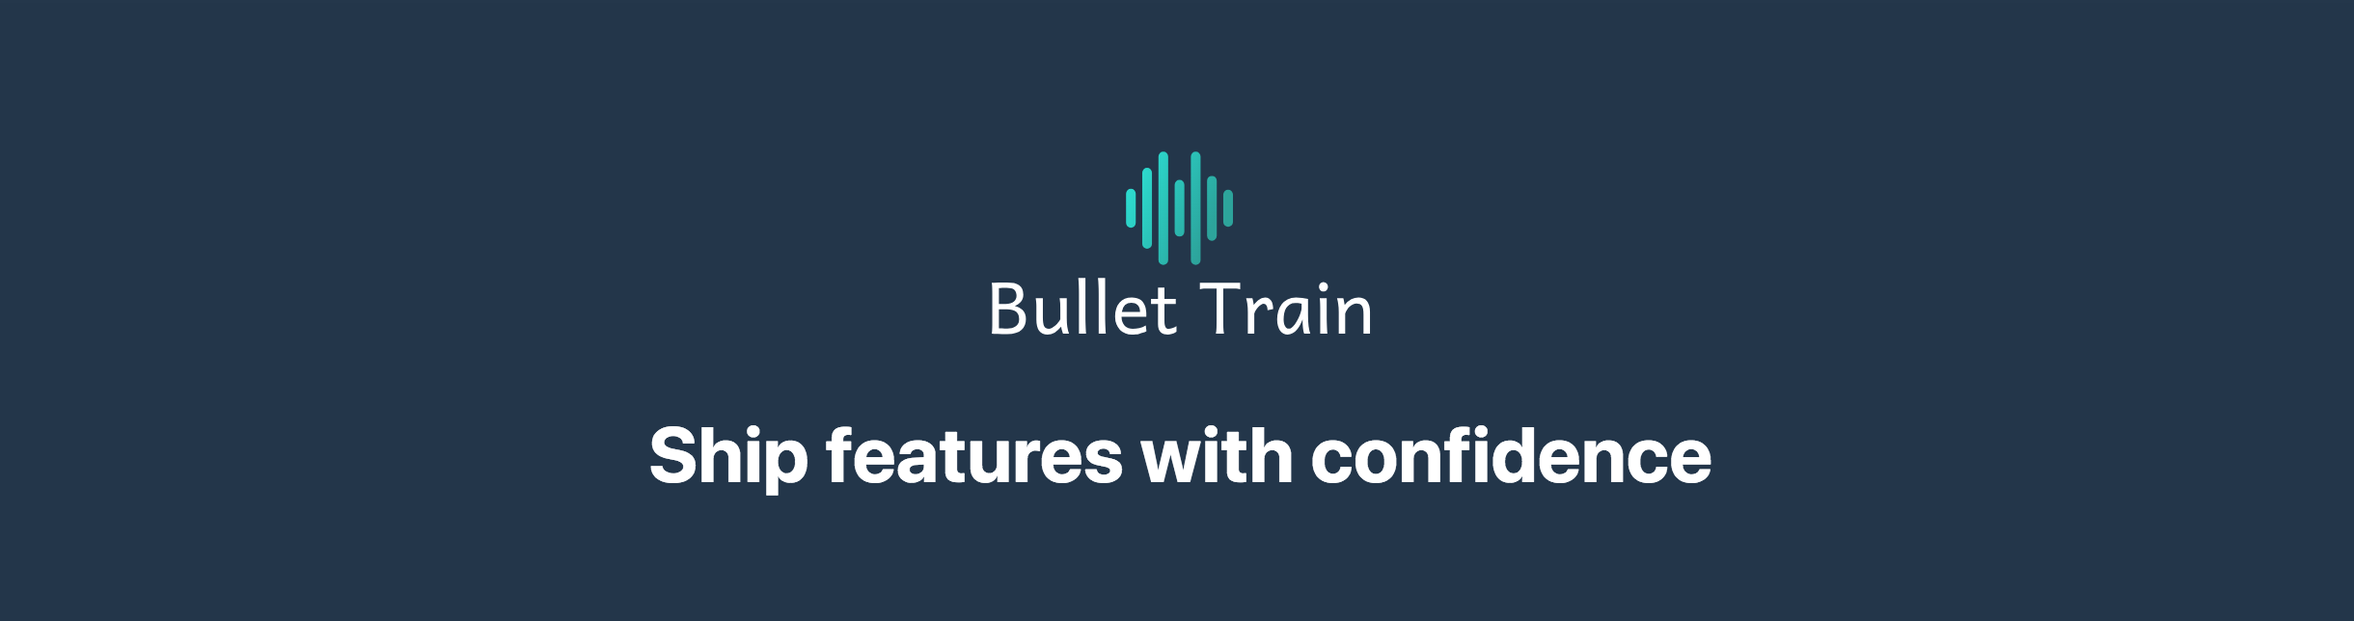
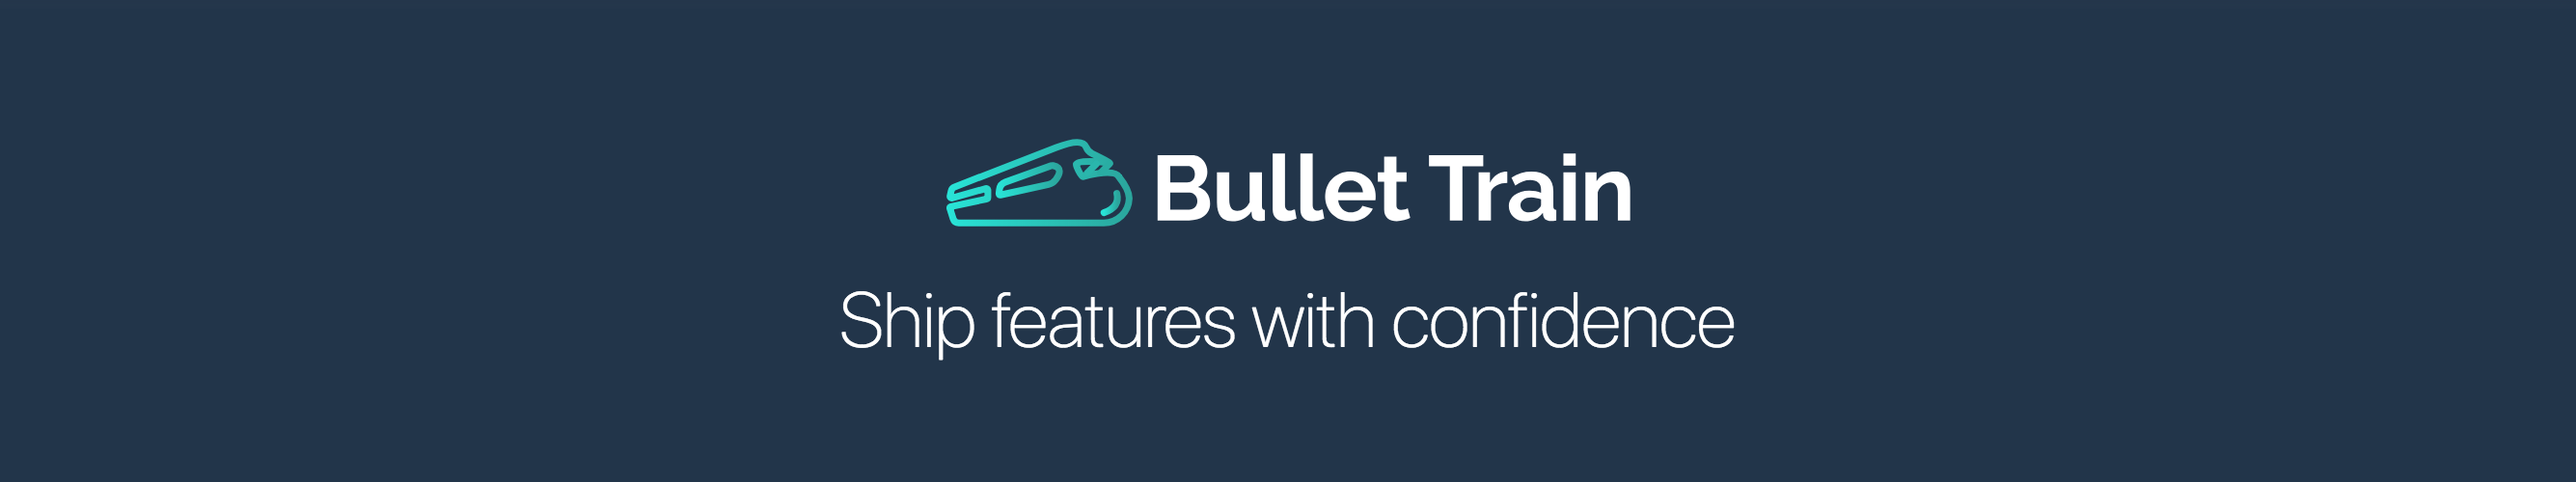
Update hero, added example app, fix getValue for user

Changed region(s): [[0.2803, 0.6, 0.7475, 0.81], [0.3426, 0.24, 0.6541, 0.54]]

diff --git a/bullet-train-core.js b/bullet-train-core.js
@@ -22,7 +22,10 @@ const BulletTrain = class {
 
     getFlagsForUser(identity, self) {
         const { onChange, onError, api, disableCache } = this;
-
+        //Because timer functions get the timeout context we need to pass through the explicit self on timers
+        if (self === undefined) {
+            self = this;
+        }
         const handleResponse = (res) => {
             // Handle server response
             let flags = {};
@@ -38,6 +41,9 @@ const BulletTrain = class {
                     };
                 }
             });
+            self.oldFlags = userFlags[identity];
+            self.flags = userFlags[identity];
+
             return userFlags;
         };
 

diff --git a/README.md b/README.md
@@ -25,7 +25,6 @@ var bulletTrain = require("bullet-train-nodejs");
 
 bulletTrain.init({
 	environmentID:"<YOUR_ENVIRONMENT_KEY>"
-	}
 });
 
 
@@ -42,7 +41,7 @@ bulletTrain.hasFeature("header")
 	}
 });
 
-bulletTrain.getValue("header", '<My User Id')
+bulletTrain.getValue("header", '<My User Id>')
 .then((value) => {
 	//Show some unique value to this user
 });
